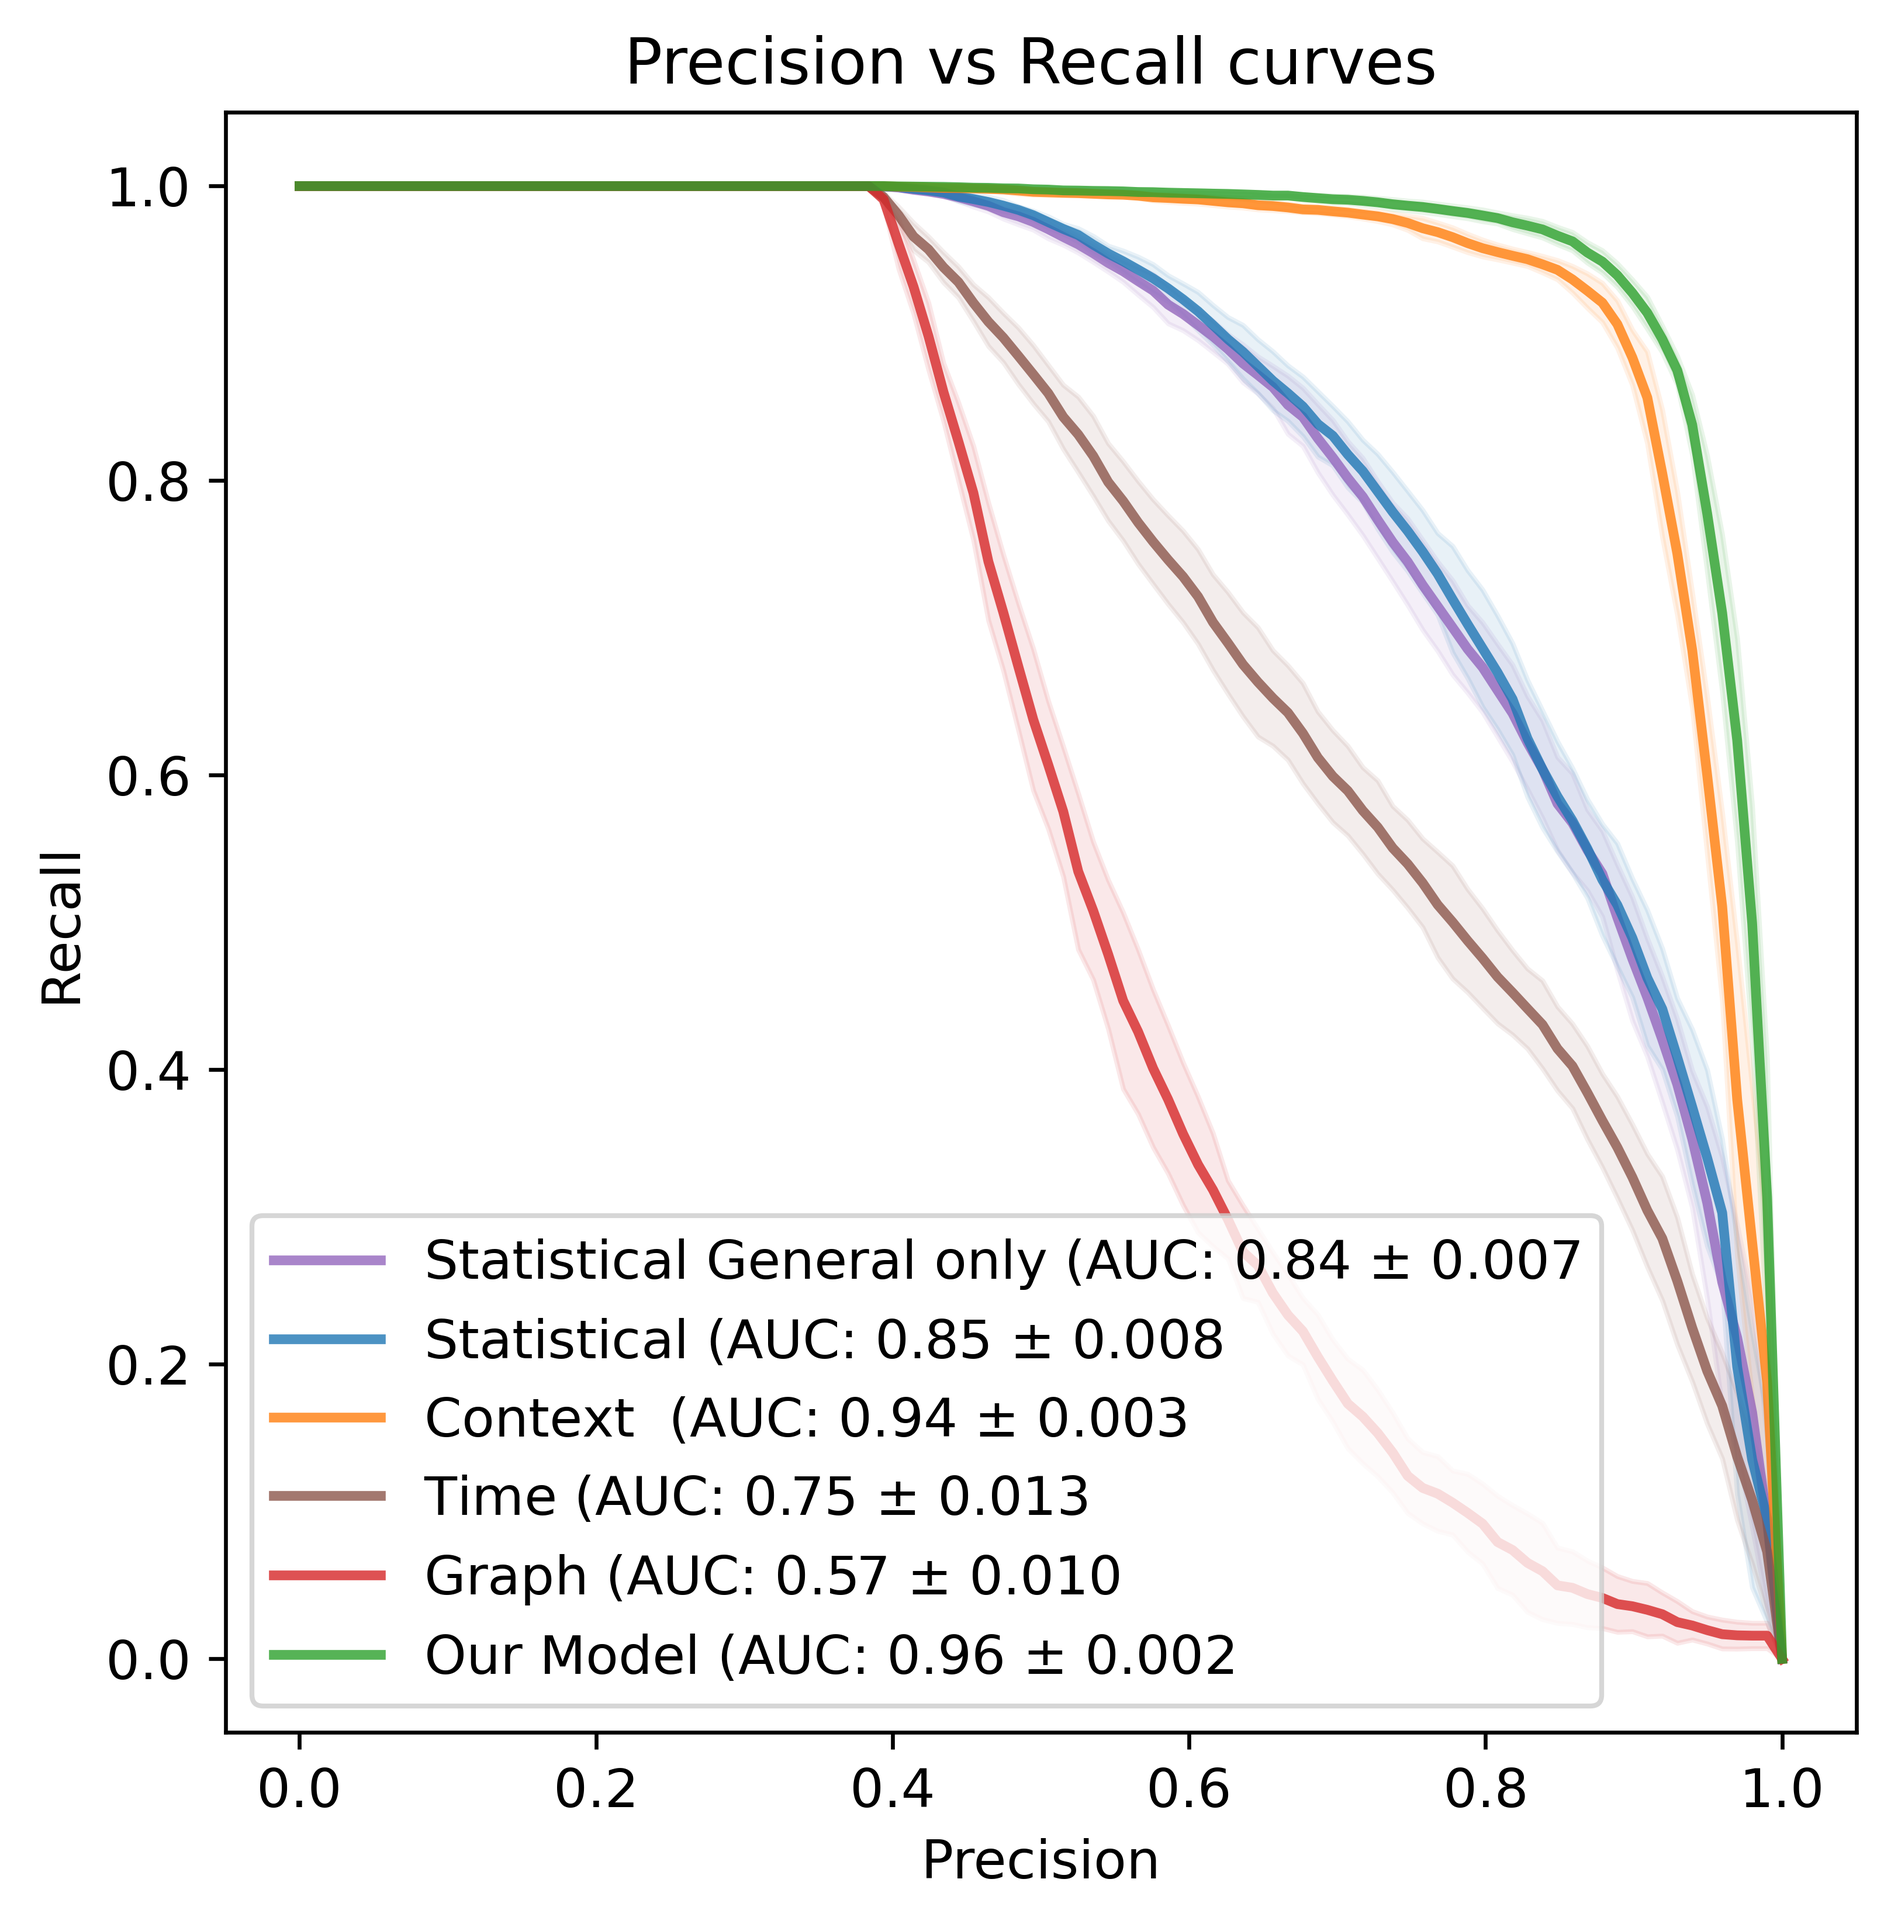
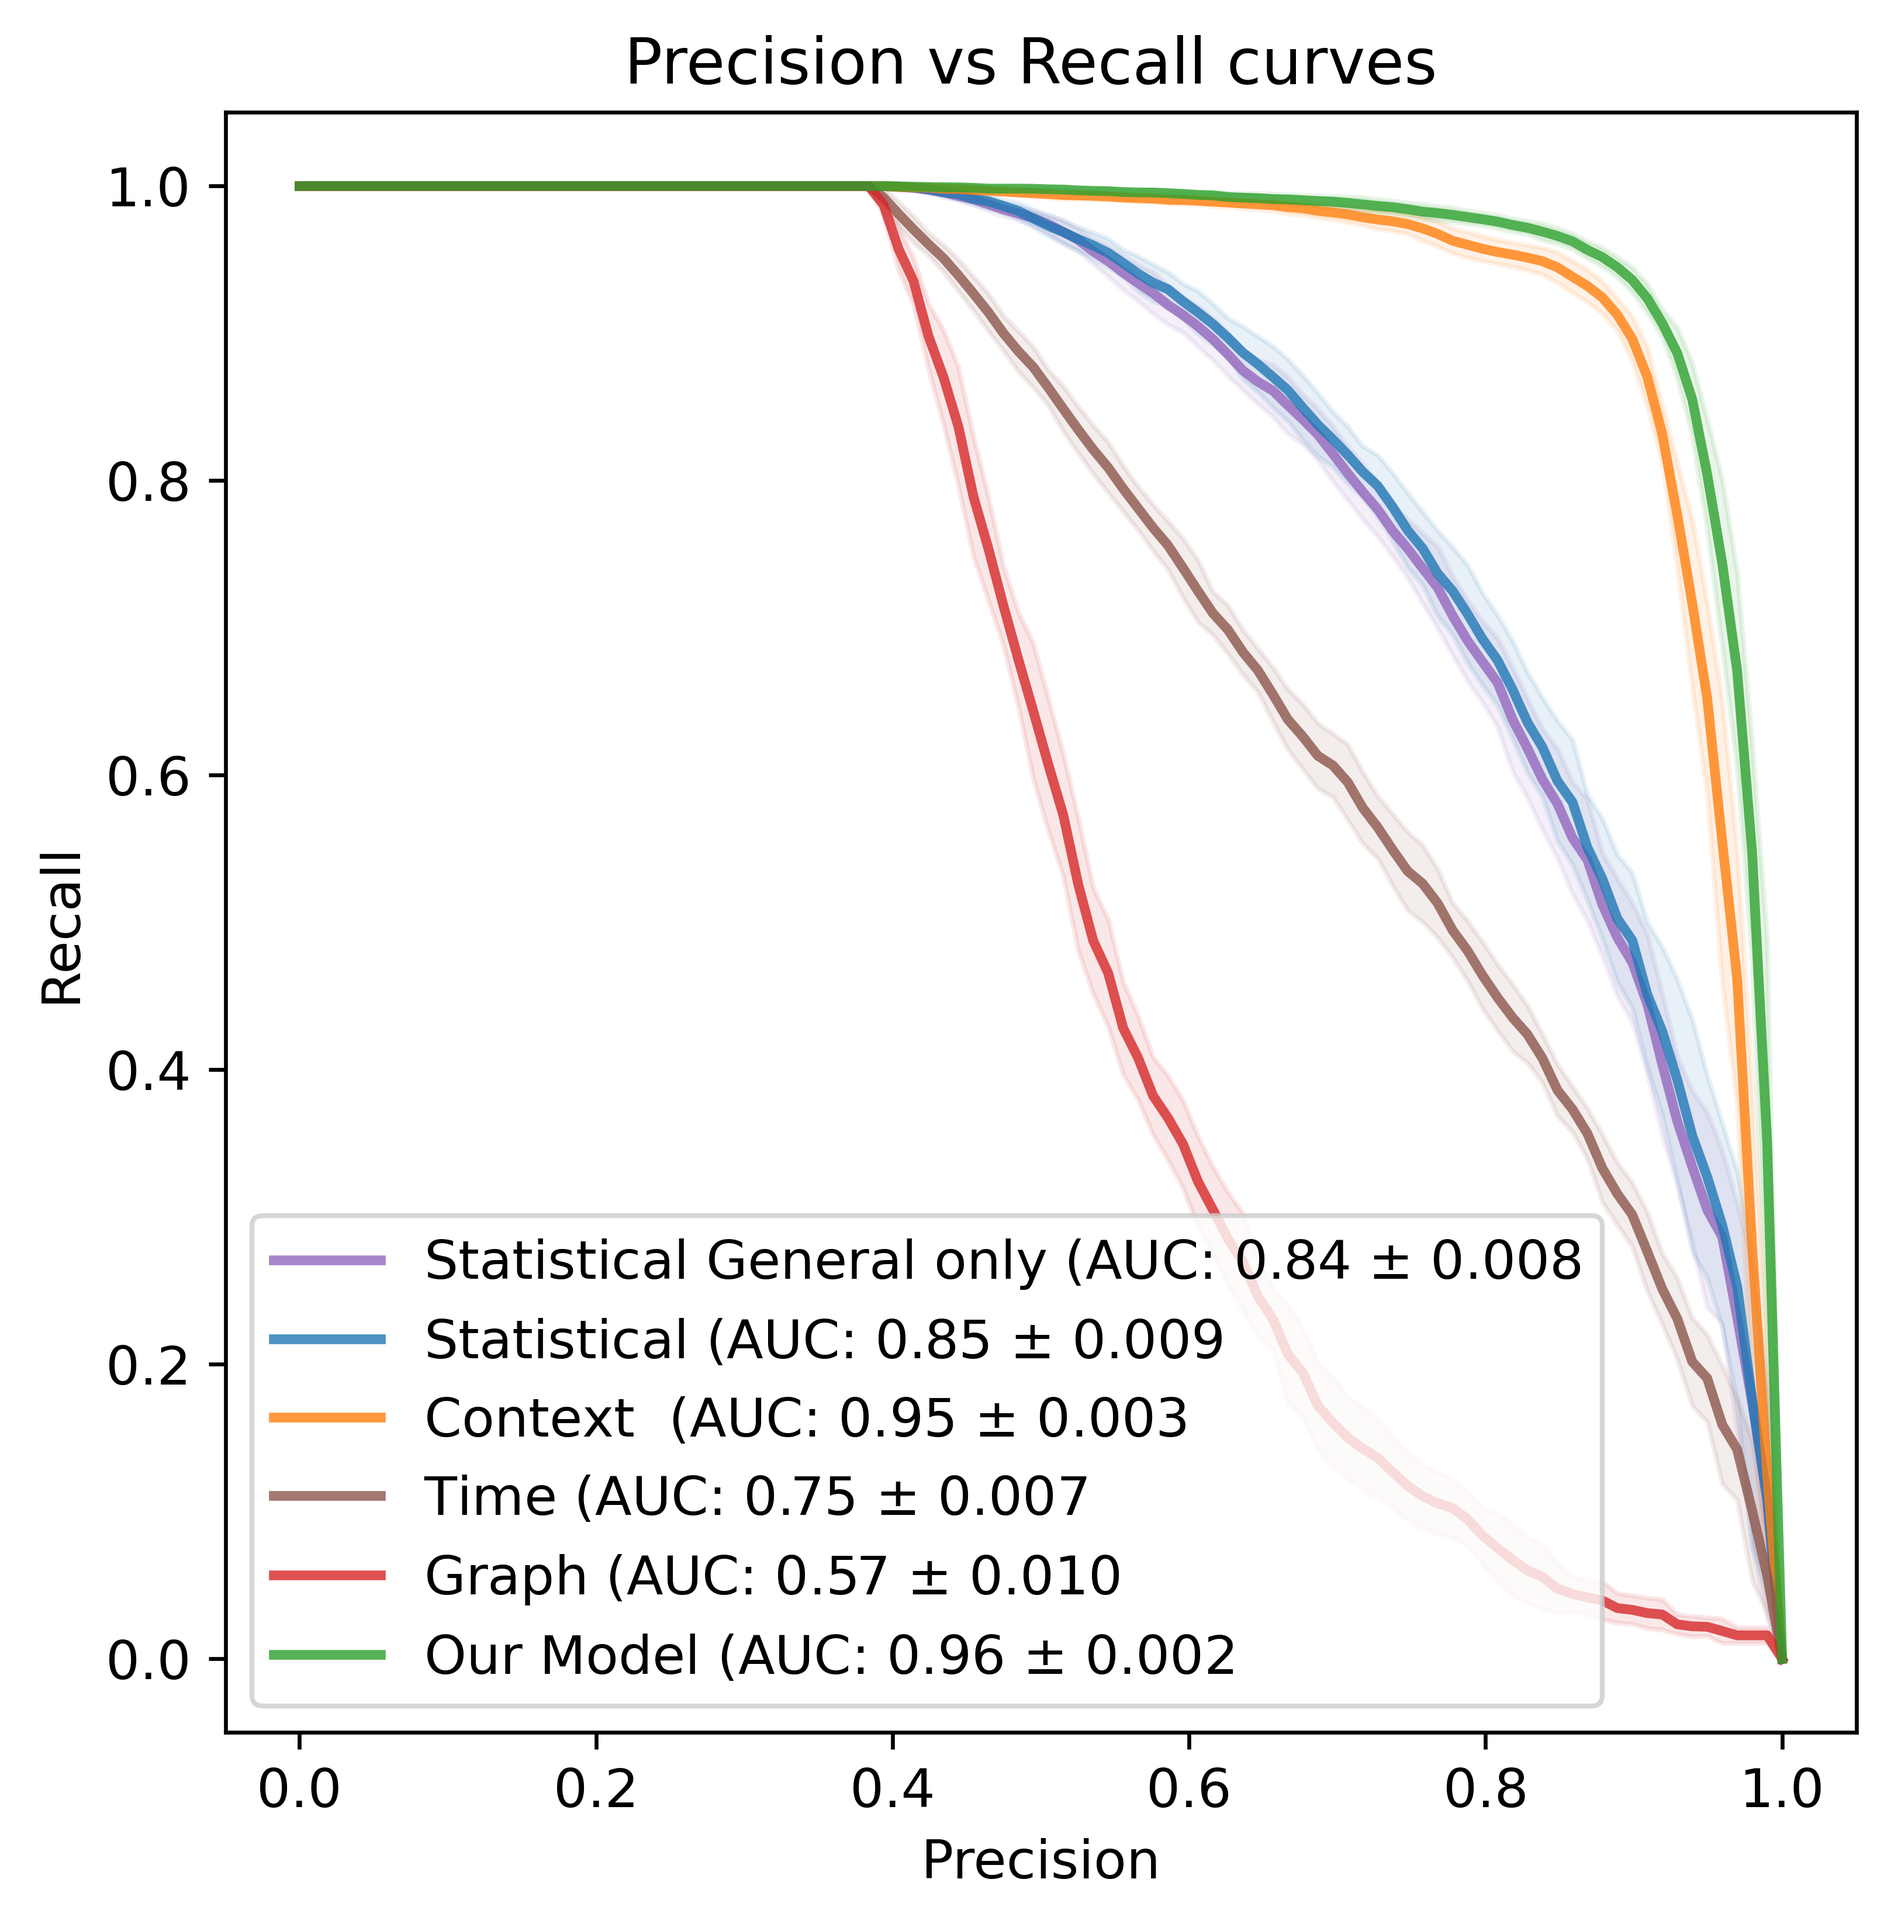
Updated with last measurment and october performance

diff --git a/code/performance_measurement.py b/code/performance_measurement.py
@@ -142,7 +142,20 @@ def measure():
 
             roc_auc = auc(fpr, tpr)
 
-            # method I: plt
+            ###########################
+            # October data measurment #
+            ###########################
+            october_df = pd.read_csv("../data/us_2020_election_data_october.csv", header=0)
+
+            october_target = october_df["target"]
+
+
+            october_f1 = f1_score(october_target, selected_model.predict(october_df[feature_set[run]]))
+            october_probs = XGB_fitted_opt.predict_proba(october_df[feature_set[run]])[:, 1]
+            october_fpr, october_tpr, october_threshold = roc_curve(october_target, october_probs)
+
+            october_roc_auc = auc(october_fpr, october_tpr)
+
             data_res[str(run)]["PREC"].append(XGB_precision)
             data_res[str(run)]["REC"].append(XGB_recall)
 
@@ -151,6 +164,9 @@ def measure():
             data_res[str(run)]["ROC"].append(roc_auc)
             data_res[str(run)]["AUC"].append(XGB_auc)
             data_res[str(run)]["F1"].append(XGB_f1)
+            data_res[str(run)]["F1_october"].append(october_f1)
+            data_res[str(run)]["ROC_october"].append(october_roc_auc)
+            
 
             FP.append(fpr)
             TP.append(tpr)
@@ -416,4 +432,7 @@ if __name__ == "__main__":
     model_labels = ["Statistical General only", "Statistical", "Context ", "Time", "Graph", "Our Model"]
     for i in res:
         print("{} F1:{}".format(model_labels[int(i)], sum(res[i]["F1"]) / len(res[i]["F1"])))
+    print("Our model features performance of october data: F1:{} ROC-AUC:{}".format(
+        sum(res["5"]["F1_october"]) / len(res["5"]["F1_october"]),
+        sum(res["5"]["ROC_october"]) / len(res["5"]["ROC_october"])))
     shap_values()
